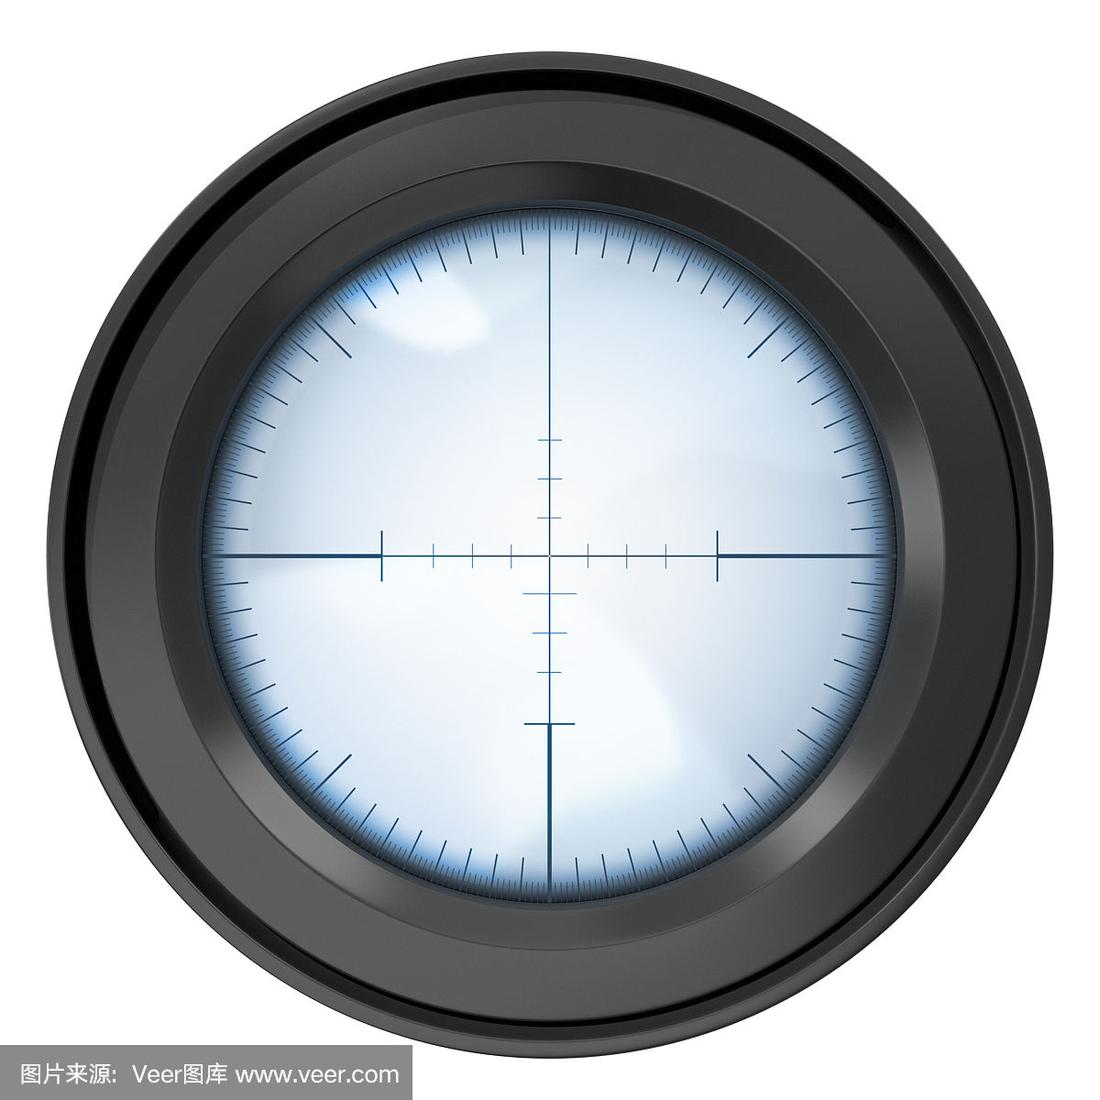
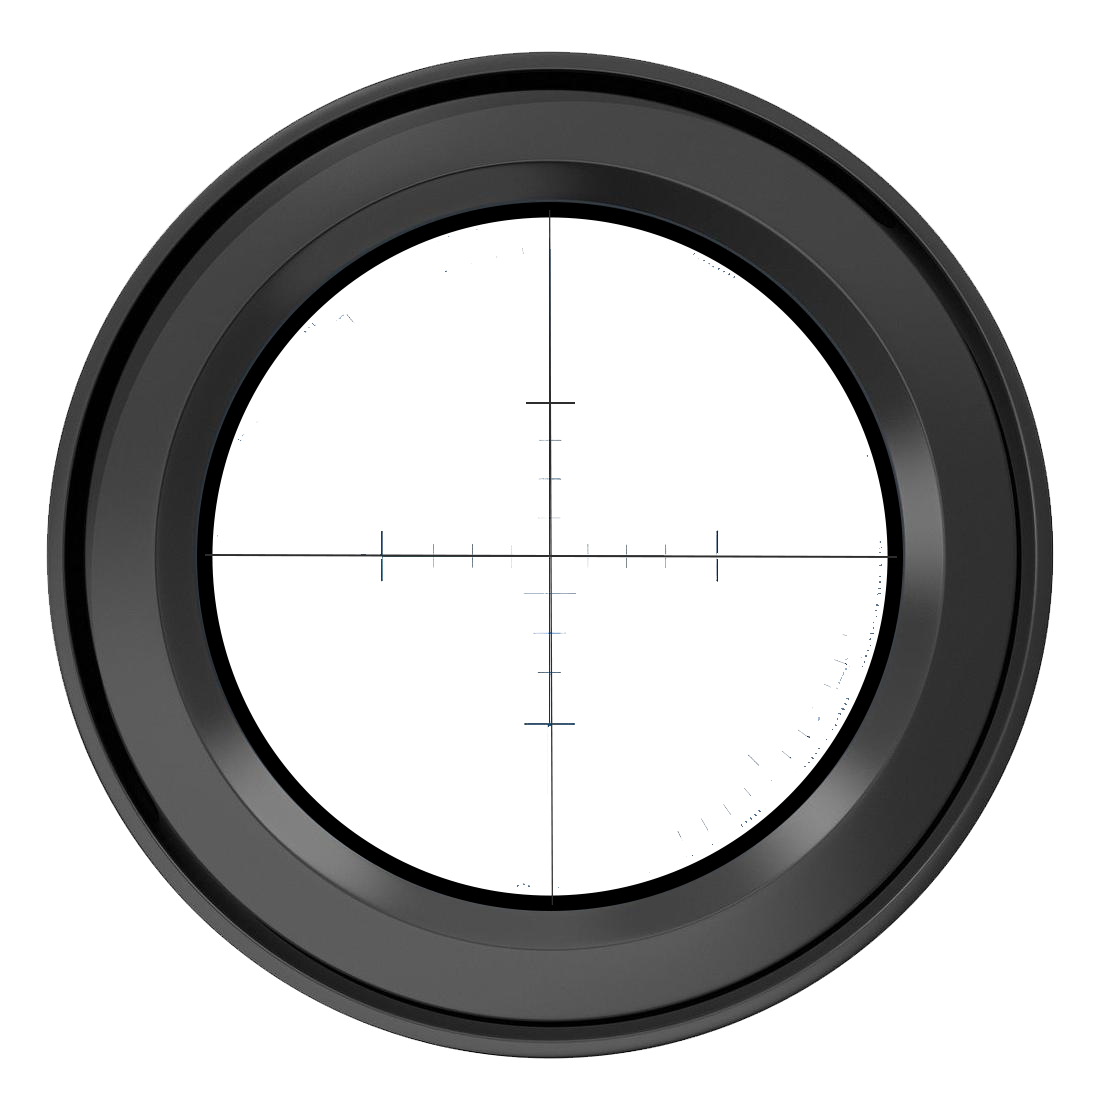
fix jingtou

Changed region(s): [[0.1545, 0.1855, 0.8345, 0.8345], [0.0, 0.9273, 0.4018, 1.0]]

diff --git a/script/main.js b/script/main.js
@@ -10,14 +10,17 @@ enemyImage.src = enemyImagePath;
 const numEnemies = 10; 
 
 
-function initenemy(){
+function generatenemy(){
   for (let i = 0; i < numEnemies; i++) {
-    const x = Math.random() * canvas.width;
-    const y = Math.random() * canvas.height;
-    ctx.drawImage(enemyImage, x, y);
+    var x = Math.random() * canvas.width;
+    var y = Math.random() * canvas.height;
+    ctx.drawImage(enemyImage, x, y, 50, 50);
   }
 }
 
+enemyImage.onload = () => {
+  generatenemy();
+};
 
 scope.style.backgroundImage = 'url("src/jingtou.png")';
 scope.style.backgroundSize = 'cover'; 
@@ -33,5 +36,7 @@ document.addEventListener('mousemove', (e) => {
   scope.style.left = `${mouseX - scopeSize / 2}px`;
   scope.style.top = `${mouseY - scopeSize / 2}px`;
 });
+
+canvas.style.cursor = 'none';
 
 

diff --git a/game.html b/game.html
@@ -10,7 +10,7 @@
 <body>
     
     <div class="game-container">
-        <canvas id="gameCanvas" width="800" height="600"></canvas>
+        <canvas id="gameCanvas" width="1600" height="800"></canvas>
         <div id="sniper-scope"></div>
      </div>
 
